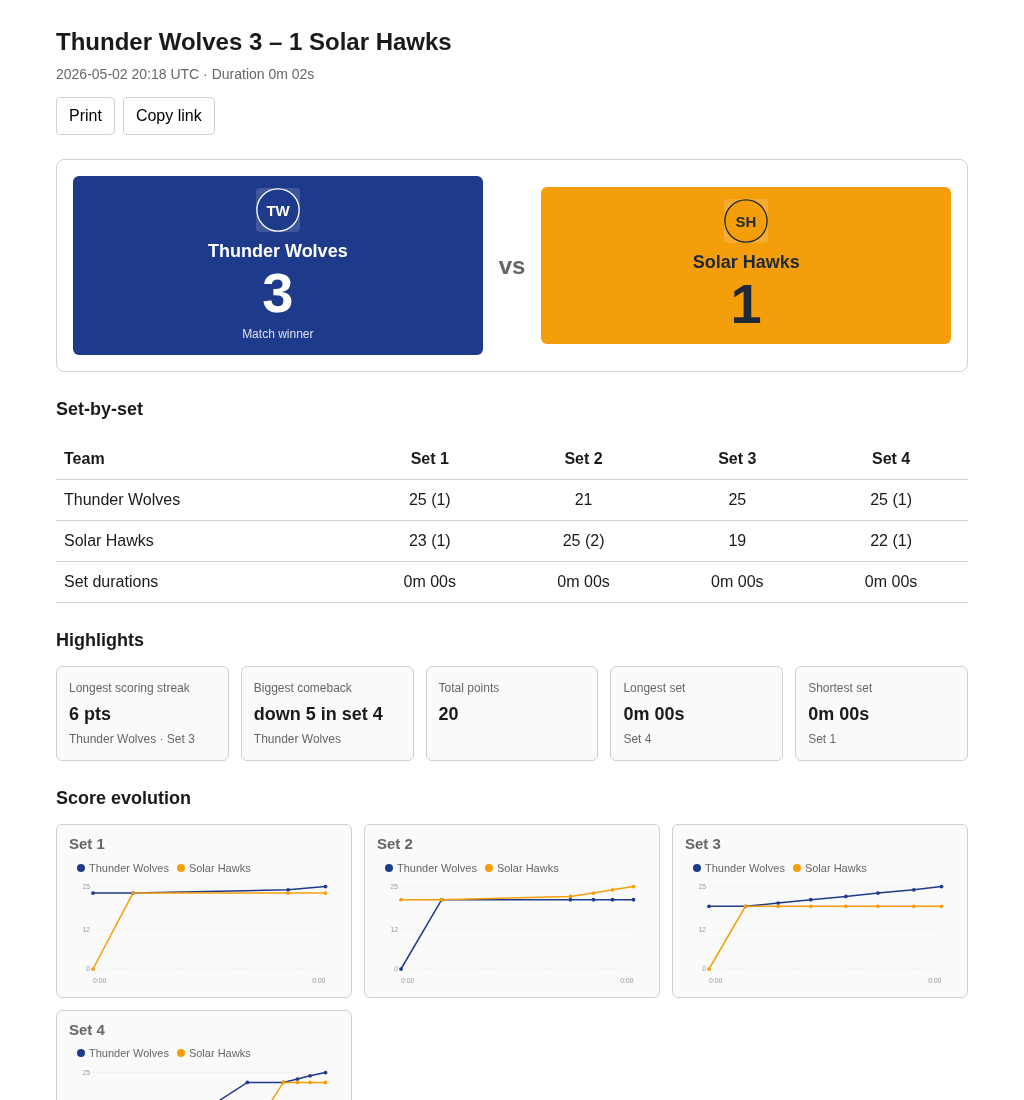
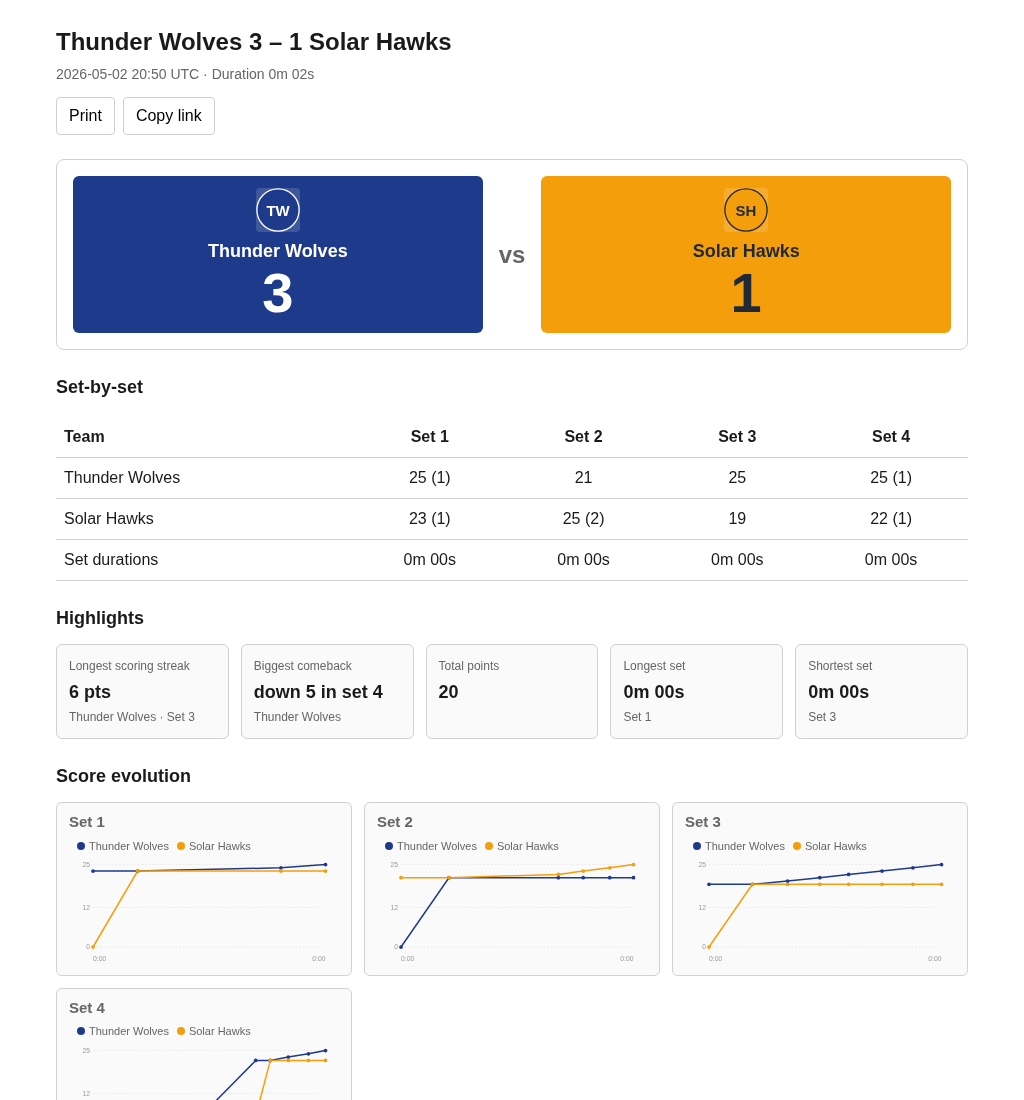
docs(report): drop the "Match winner" badge below the winning side
Looking through git log, ``Match winner`` was added by 6ca9307
(``feat(report): richer print-friendly match report``) and never
removed — even though the user expected it gone. The 3 – 1 score
in the hero card and the page title (``Team 1 3 – 1 Team 2``)
already make the verdict obvious; the badge below the winning
``<div class="sets">`` was redundant.

Removed:

- The ``{team1_winner_badge}`` / ``{team2_winner_badge}`` template
  slots and the Python that decided which side rendered them.
- The ``.team .winner`` CSS rule (the only user). The matches
  index keeps ``td.score .winner`` because that's a separate
  surface — list-row "winning side" highlight on /matches.
- The ``matchWinner`` i18n key from all six locales (unused).

Test ``test_renders_final_score`` now asserts the badge is
*absent*; the test ``rich_match`` fixture's ``winning_team=1``
still drives the data path so the route doesn't crash on the
field.

diff --git a/app/match_report_i18n.py b/app/match_report_i18n.py
@@ -27,7 +27,6 @@ _TRANSLATIONS: dict[str, dict[str, str]] = {
     "en": {
         "title": "Match report — {label}",
         "duration": "Duration",
-        "matchWinner": "Match winner",
         "setByset": "Set-by-set",
         "team": "Team",
         "setDurations": "Set durations",
@@ -72,7 +71,6 @@ _TRANSLATIONS: dict[str, dict[str, str]] = {
     "es": {
         "title": "Informe del partido — {label}",
         "duration": "Duración",
-        "matchWinner": "Ganador del partido",
         "setByset": "Set a set",
         "team": "Equipo",
         "setDurations": "Duración de los sets",
@@ -117,7 +115,6 @@ _TRANSLATIONS: dict[str, dict[str, str]] = {
     "pt": {
         "title": "Relatório do jogo — {label}",
         "duration": "Duração",
-        "matchWinner": "Vencedor do jogo",
         "setByset": "Set a set",
         "team": "Equipa",
         "setDurations": "Duração dos sets",
@@ -162,7 +159,6 @@ _TRANSLATIONS: dict[str, dict[str, str]] = {
     "it": {
         "title": "Referto della partita — {label}",
         "duration": "Durata",
-        "matchWinner": "Vincitore della partita",
         "setByset": "Set per set",
         "team": "Squadra",
         "setDurations": "Durata dei set",
@@ -207,7 +203,6 @@ _TRANSLATIONS: dict[str, dict[str, str]] = {
     "fr": {
         "title": "Rapport du match — {label}",
         "duration": "Durée",
-        "matchWinner": "Vainqueur du match",
         "setByset": "Set par set",
         "team": "Équipe",
         "setDurations": "Durée des sets",
@@ -252,7 +247,6 @@ _TRANSLATIONS: dict[str, dict[str, str]] = {
     "de": {
         "title": "Spielbericht — {label}",
         "duration": "Dauer",
-        "matchWinner": "Spielsieger",
         "setByset": "Satz für Satz",
         "team": "Team",
         "setDurations": "Satzdauer",

diff --git a/app/match_report.py b/app/match_report.py
@@ -234,7 +234,6 @@ _REPORT_TEMPLATE = """<!doctype html>
   }}
   .team .name {{ font-weight: 600; font-size: 18px; }}
   .team .sets {{ font-size: 56px; line-height: 1; font-weight: 700; }}
-  .team .winner {{ font-size: 12px; opacity: 0.85; margin-top: 4px; }}
   .vs {{ font-size: 24px; font-weight: 600; color: var(--muted); }}
   table {{
     width: 100%;
@@ -363,14 +362,12 @@ _REPORT_TEMPLATE = """<!doctype html>
     {team1_logo}
     <div class="name">{team1_name}</div>
     <div class="sets">{team1_sets}</div>
-    {team1_winner_badge}
   </div>
   <div class="vs">{versus}</div>
   <div class="team t2">
     {team2_logo}
     <div class="name">{team2_name}</div>
     <div class="sets">{team2_sets}</div>
-    {team2_winner_badge}
   </div>
 </section>
 
@@ -1495,13 +1492,6 @@ async def match_report(
     else:
         effective_duration = payload.get("duration_s")
 
-    winning_team = payload.get("winning_team")
-    winner_badge = (
-        f'<div class="winner">{html.escape(_t(locale, "matchWinner"))}</div>'
-    )
-    team1_winner = winner_badge if winning_team == 1 else ""
-    team2_winner = winner_badge if winning_team == 2 else ""
-
     # ``match_label`` and ``permalink`` are kept raw here — every
     # consumer escapes at insertion time. Pre-escaping the source
     # would push the title through ``html.escape`` twice (once here,
@@ -1525,8 +1515,6 @@ async def match_report(
         team1_fg=t1_fg,
         team2_color=t2_color,
         team2_fg=t2_fg,
-        team1_winner_badge=team1_winner,
-        team2_winner_badge=team2_winner,
         set_count=played_sets,
         set_headers=set_headers,
         team1_set_cells=_team_set_cells(team1, 1),

diff --git a/tests/test_match_report.py b/tests/test_match_report.py
@@ -194,10 +194,14 @@ class TestMatchReport:
 
     def test_renders_final_score(self, client, archived_match):
         response = client.get(f"/match/{archived_match}/report")
-        # Match winner team 1 with 3-1 sets.
+        # Set scores 3-1; the winner is implicit from those plus the
+        # ``Team 1 3 – 1 Team 2`` page title (no separate badge — the
+        # scores themselves carry the verdict).
         assert ">3<" in response.text
         assert ">1<" in response.text
-        assert "Match winner" in response.text
+        # The legacy "Match winner" badge below the winning team's
+        # score has been removed; just being a higher number says it.
+        assert "Match winner" not in response.text
 
     def test_renders_set_by_set_table(self, client, archived_match):
         response = client.get(f"/match/{archived_match}/report")
